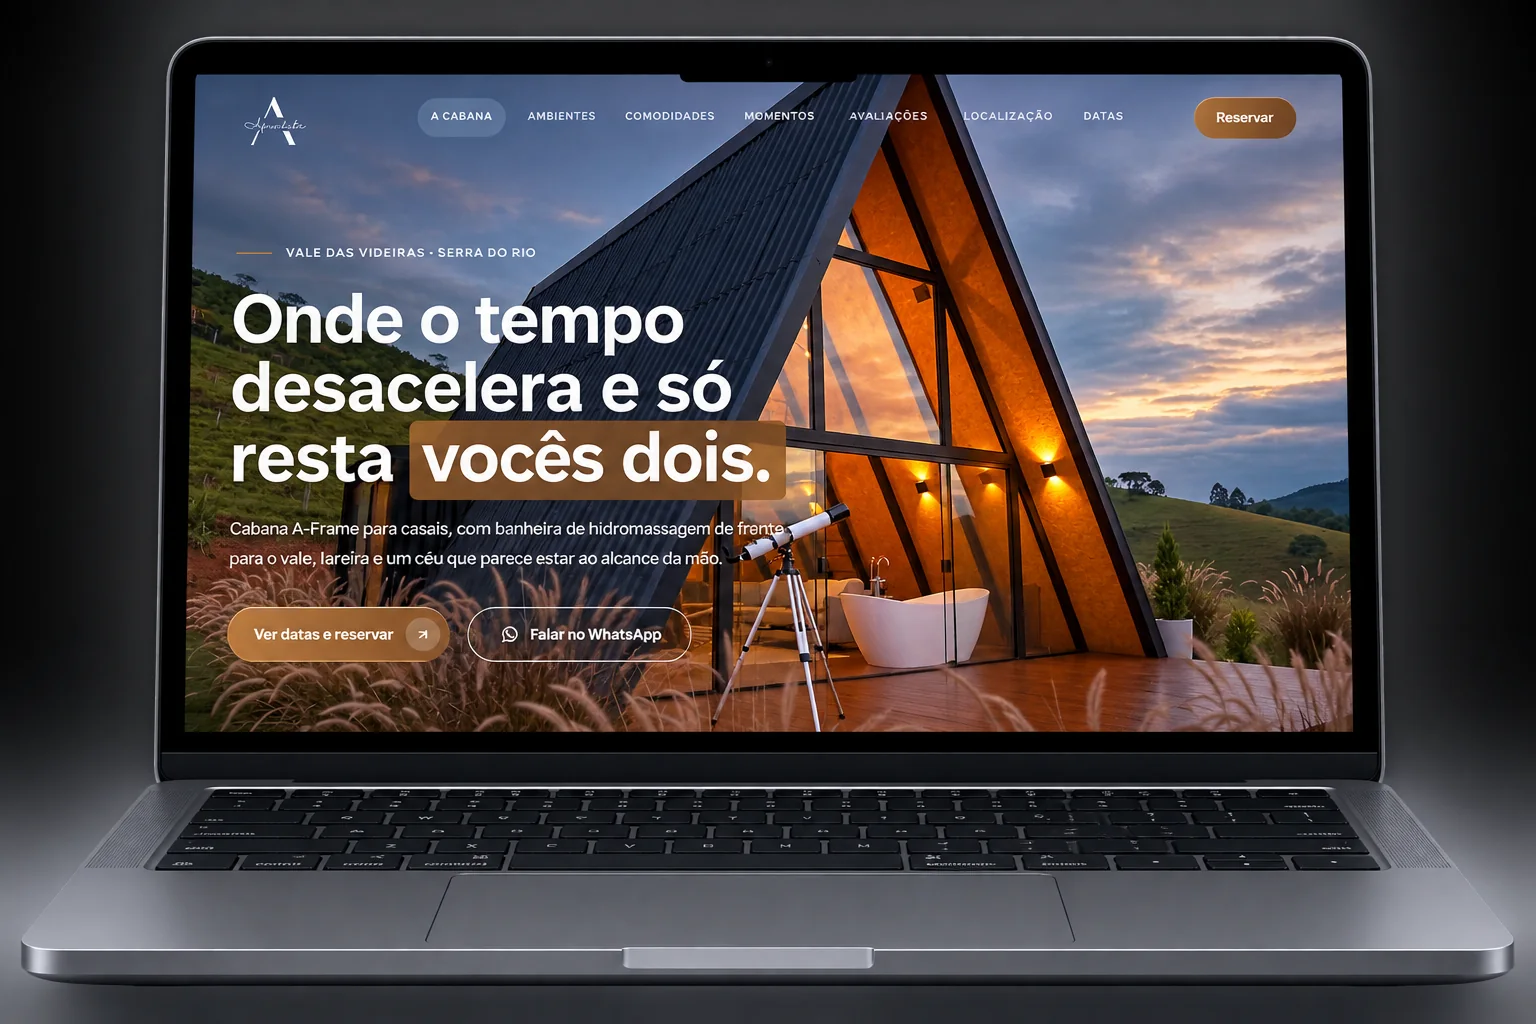
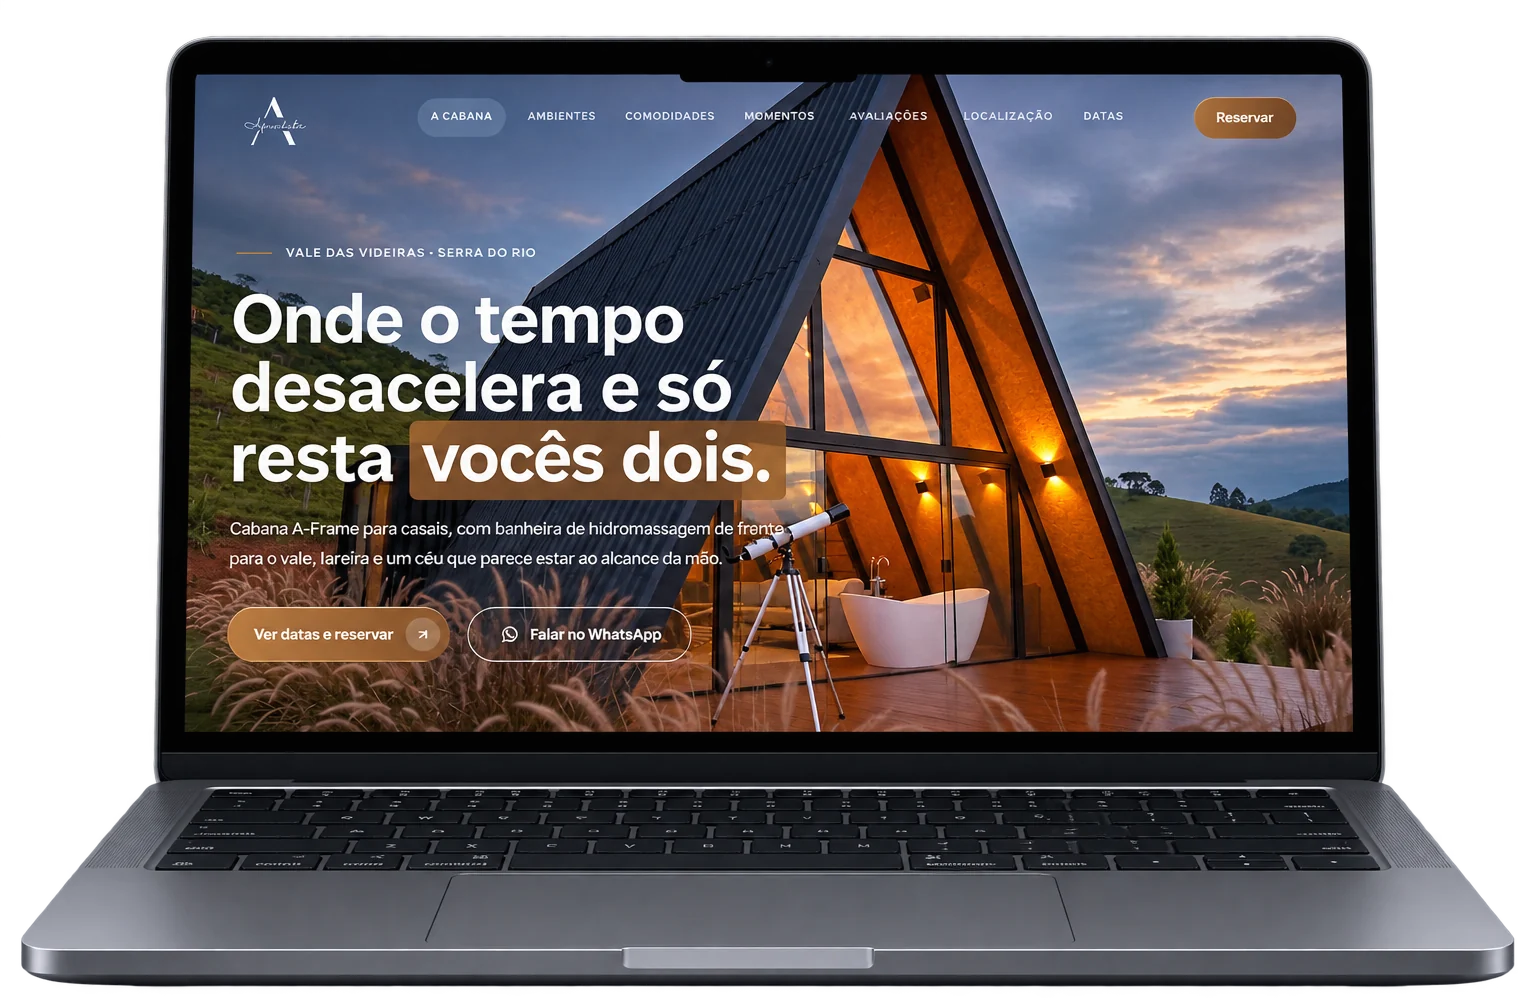
Tira o retangulo preto do portfolio e assenta o notebook na pagina
Erro meu na conversao anterior: os PNGs originais TEM transparencia, 24%
dos pixels, e eu usei convert('RGB'), que achatou o alfa em preto. Era
dai que vinha o retangulo. Agora:
- WebP gerado direto do RGBA, com o alfa preservado
- getbbox() corta a moldura vazia em volta do notebook, entao o card
  mostra o aparelho e nao uma area transparente inutil
- Viver Bem passa a usar o arquivo com alfa, nao a versao achatada
- Cabana 1519x1000 (194 KB), Viver Bem 1200x767 (81 KB)

O card se adapta a imagem recortada:
- .work-shot perde fundo, borda, raio e overflow: o notebook flutua
- drop-shadow segue a silhueta do aparelho, em vez de sombrear um
  retangulo. No hover a sombra abre e o card sobe 6px
- O selo "No ar" sai de cima da imagem, onde ficaria boiando no vazio,
  e vai para o lado do nome do projeto

Mobile:
- scroll-behavior:smooth sai do trilho e fica so no clique das setas,
  via scrollBy({behavior}), para o dedo nao disputar com a animacao
- Com o recorte, o que espia agora e o notebook do proximo projeto e nao
  uma borda preta: 41px em 360, 46px em 390, 130px em 700

diff --git a/styles.css b/styles.css
@@ -795,13 +795,13 @@ header.scrolled{
 .work-rail{
   margin-top:clamp(30px,4vw,50px);
   overflow-x:auto;overscroll-behavior-x:contain;
-  scroll-snap-type:x mandatory;scroll-behavior:smooth;
+  scroll-snap-type:x mandatory;
   scroll-padding-left:max(24px,calc((100vw - 1200px)/2));
   cursor:grab;-webkit-user-select:none;user-select:none;
   scrollbar-width:none;
 }
 .work-rail::-webkit-scrollbar{display:none}
-.work-rail.arrastando{cursor:grabbing;scroll-behavior:auto;scroll-snap-type:none}
+.work-rail.arrastando{cursor:grabbing;scroll-snap-type:none}
 .work-rail:focus-visible{outline:3px solid var(--ring);outline-offset:6px}
 .work-track{
   display:flex;gap:clamp(18px,2.4vw,32px);width:max-content;
@@ -813,13 +813,18 @@ header.scrolled{
      não re-encaixa sozinho quando as imagens terminam de carregar */
   scroll-snap-align:start;
 }
+/* a imagem é um PNG recortado: o notebook flutua, sem retângulo em volta */
 .work-shot{
-  position:relative;display:block;border-radius:var(--radius);overflow:hidden;
-  transition:transform var(--dur) var(--ease-out),filter var(--dur);
+  position:relative;display:block;
+  transition:transform var(--dur) var(--ease-out);
 }
-.work-shot img{width:100%;height:auto;display:block;pointer-events:none}
-.work-shot:hover{transform:translateY(-4px)}
-.work-shot:hover img{filter:brightness(1.06)}
+.work-shot img{
+  width:100%;height:auto;display:block;pointer-events:none;
+  filter:drop-shadow(0 26px 42px rgba(0,0,0,.55));
+  transition:filter var(--dur);
+}
+.work-shot:hover{transform:translateY(-6px)}
+.work-shot:hover img{filter:drop-shadow(0 34px 54px rgba(0,0,0,.62))}
 /* enquanto a imagem do projeto não existe, a moldura vira uma placa com o endereço */
 .work-shot--vazio{
   aspect-ratio:3/2;display:grid;place-items:center;
@@ -830,15 +835,13 @@ header.scrolled{
   font-family:var(--font-display);font-weight:600;font-size:.92rem;
   letter-spacing:.05em;color:var(--white-50);
 }
-/* selo "no ar": o único ponto de cor do bloco */
+/* selo "no ar": o único ponto de cor do bloco, agora ao lado do nome */
+.work-titulo{display:flex;align-items:center;gap:14px;flex-wrap:wrap}
 .work-live{
-  position:absolute;top:16px;left:16px;z-index:2;
-  display:inline-flex;align-items:center;gap:8px;
-  font-family:var(--font-display);font-weight:600;font-size:.66rem;
-  letter-spacing:.16em;text-transform:uppercase;color:var(--white);
-  background:rgba(10,10,14,.72);border:1px solid var(--border-strong);
-  border-radius:99px;padding:7px 13px;
-  -webkit-backdrop-filter:blur(10px);backdrop-filter:blur(10px);
+  display:inline-flex;align-items:center;gap:8px;flex:none;
+  font-family:var(--font-display);font-weight:600;font-size:.62rem;
+  letter-spacing:.16em;text-transform:uppercase;color:var(--white-70);
+  border:1px solid var(--border-strong);border-radius:99px;padding:5px 11px;
 }
 .work-live i{
   width:6px;height:6px;border-radius:50%;background:var(--orange-500);flex:none;

diff --git a/index.html b/index.html
@@ -344,11 +344,13 @@
 
       <article class="work">
         <a class="work-shot" href="https://afroditecabana.com.br/" target="_blank" rel="noopener" aria-label="Abrir o site da Cabana Afrodite em uma nova aba">
-          <img src="img/portfolio/cabana-afrodite.webp" alt="Site da Cabana Afrodite aberto na tela de um notebook" loading="lazy" width="1536" height="1024" draggable="false">
-          <span class="work-live"><i aria-hidden="true"></i>No ar</span>
+          <img src="img/portfolio/cabana-afrodite.webp" alt="Site da Cabana Afrodite aberto na tela de um notebook" loading="lazy" width="1519" height="1000" draggable="false">
         </a>
         <div class="work-info">
-          <h3>Cabana Afrodite</h3>
+          <div class="work-titulo">
+            <h3>Cabana Afrodite</h3>
+            <span class="work-live"><i aria-hidden="true"></i>No ar</span>
+          </div>
           <span class="work-tipo">Site institucional &middot; Hospedagem</span>
           <p>Cabana A-Frame para casais entre Petrópolis e Paty do Alferes. Galeria de ambientes, avaliações reais dos hóspedes e um calendário de datas que leva direto para a conversa no WhatsApp.</p>
           <div class="work-rodape">
@@ -363,11 +365,13 @@
 
       <article class="work">
         <a class="work-shot" href="https://www.centromedicoviverbem.com.br/" target="_blank" rel="noopener" aria-label="Abrir o site do Centro Médico Viver Bem em uma nova aba">
-          <img src="img/portfolio/viver-bem.webp" alt="Site do Centro Médico Viver Bem aberto na tela de um notebook" loading="lazy" width="1535" height="1024" draggable="false">
-          <span class="work-live"><i aria-hidden="true"></i>No ar</span>
+          <img src="img/portfolio/viver-bem.webp" alt="Site do Centro Médico Viver Bem aberto na tela de um notebook" loading="lazy" width="1200" height="767" draggable="false">
         </a>
         <div class="work-info">
-          <h3>Centro Médico Viver Bem</h3>
+          <div class="work-titulo">
+            <h3>Centro Médico Viver Bem</h3>
+            <span class="work-live"><i aria-hidden="true"></i>No ar</span>
+          </div>
           <span class="work-tipo">Site institucional &middot; Saúde</span>
           <p>Centro médico em Petrópolis com mais de 20 especialidades. Consultas, ultrassonografias e exames laboratoriais organizados em caminhos claros, com agendamento pelo WhatsApp em qualquer ponto da página.</p>
           <div class="work-rodape">
